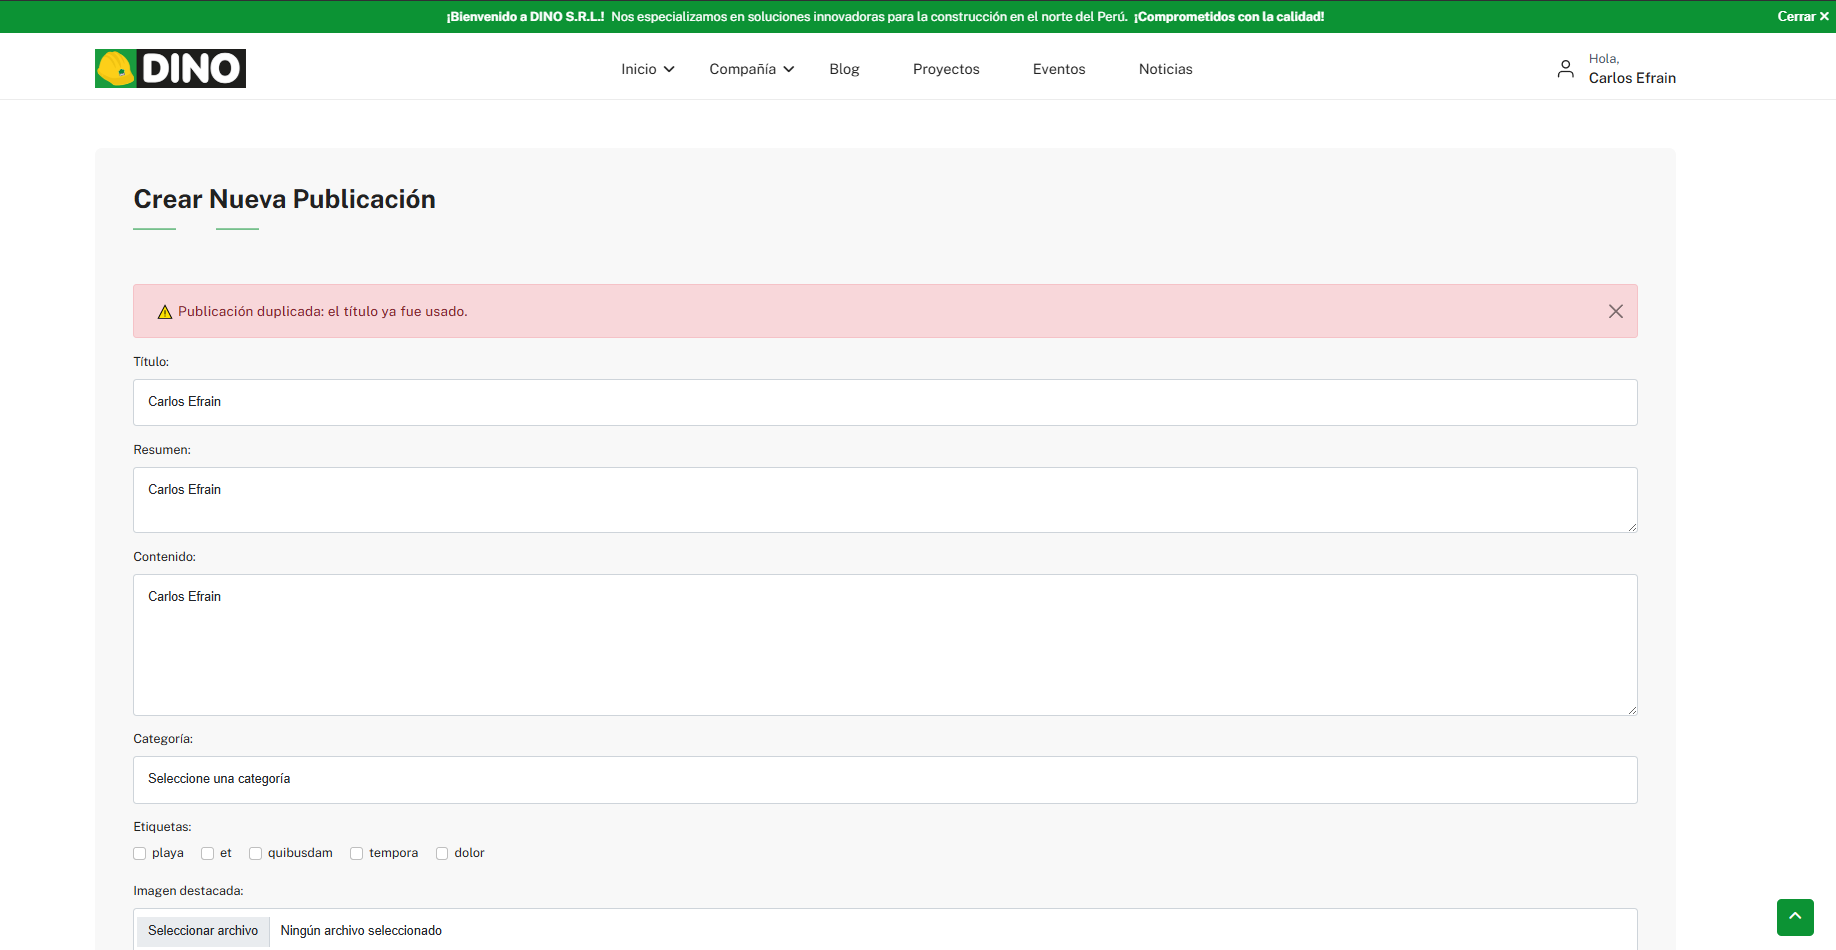
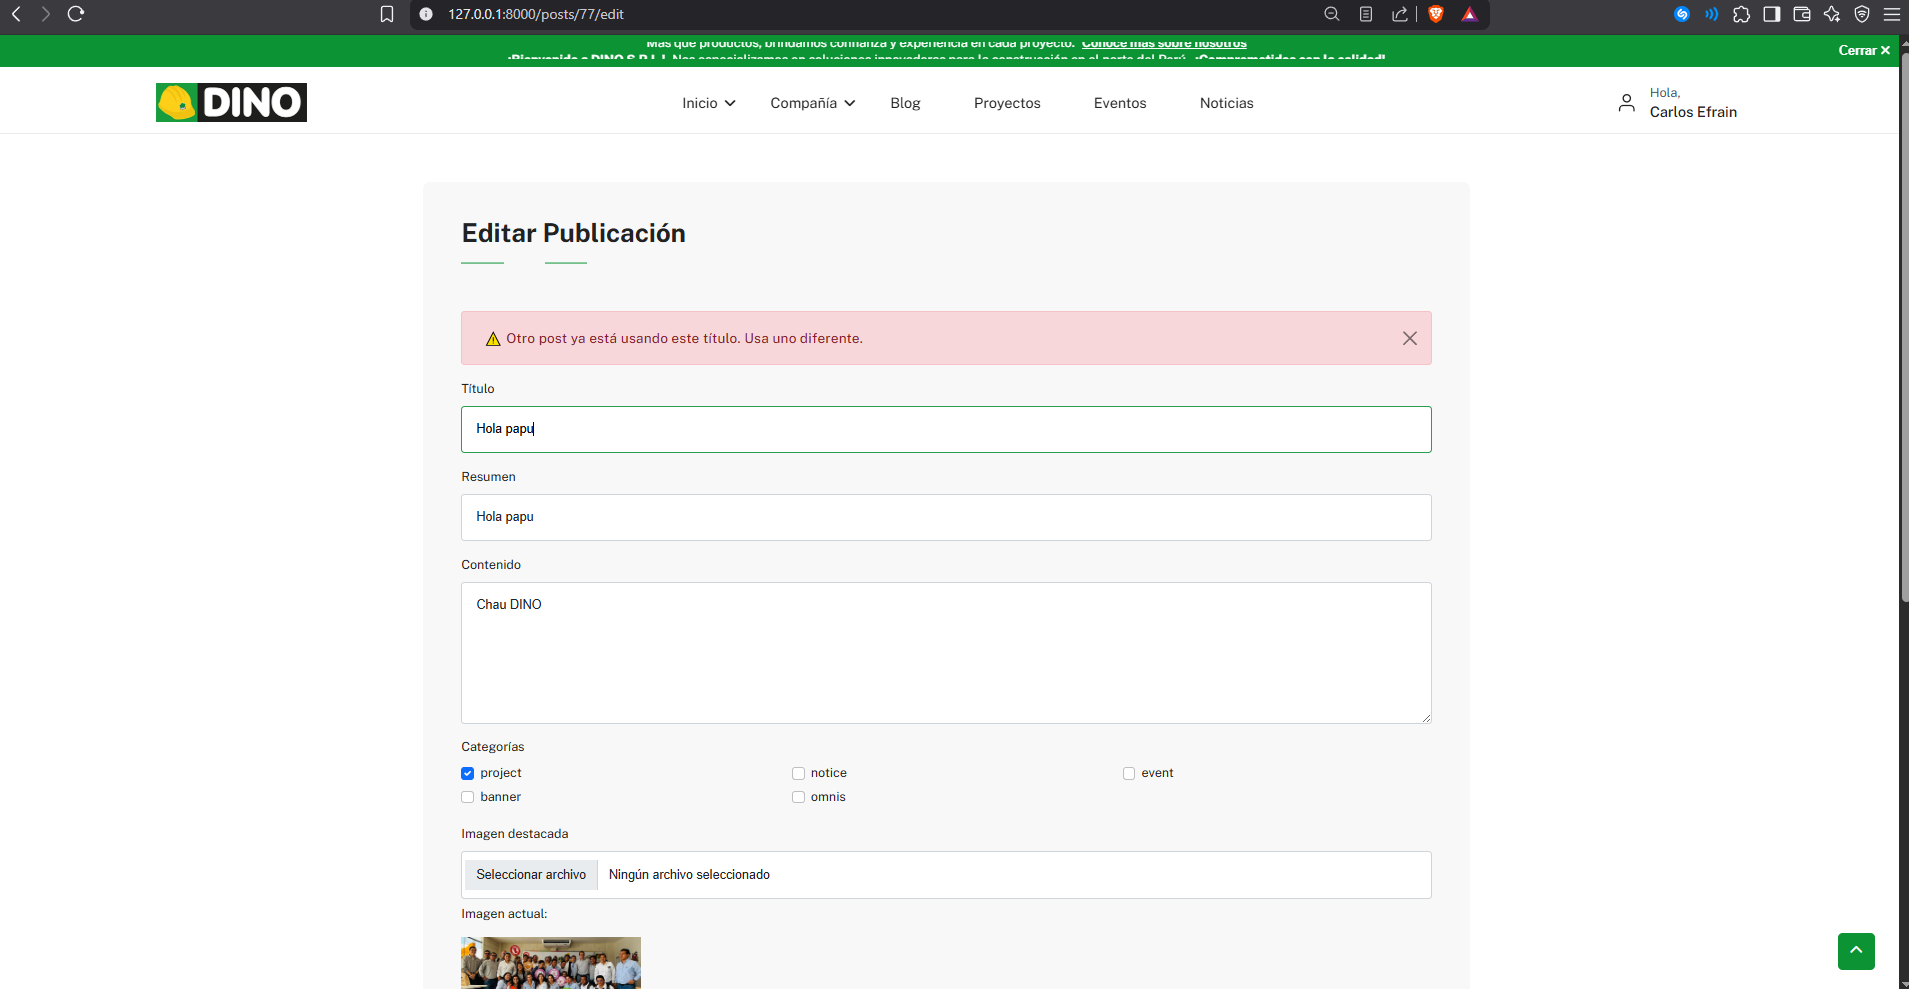
Se agrega el proyecto el mensaje que ya esta creado otro post con el mismo titulo. Funciona correctamente

diff --git a/resources/views/blog/crud/edit.blade.php b/resources/views/blog/crud/edit.blade.php
@@ -10,9 +10,31 @@
                     <div class="dashboard-right-sidebar">
                         <div class="title mb-4">
                             <h2>Editar Publicación</h2>
+                            <span class="title-leaf">
+                                <svg class="icon-width bg-gray">
+                                    <use xlink:href="../assets/svg/leaf.svg#leaf"></use>
+                                </svg>
+                            </span>
                         </div>
 
-                        {{-- Mostrar errores de validación --}}
+                        {{-- ✅ Mensajes tipo alerta Bootstrap --}}
+                        @if (session('error'))
+                            <div class="alert alert-danger alert-dismissible fade show mt-3" role="alert">
+                                {{ session('error') }}
+                                <button type="button" class="btn-close" data-bs-dismiss="alert"
+                                    aria-label="Cerrar"></button>
+                            </div>
+                        @endif
+
+                        @if (session('success'))
+                            <div class="alert alert-success alert-dismissible fade show mt-3" role="alert">
+                                {{ session('success') }}
+                                <button type="button" class="btn-close" data-bs-dismiss="alert"
+                                    aria-label="Cerrar"></button>
+                            </div>
+                        @endif
+
+                        {{-- ✅ Mostrar errores de validación --}}
                         @if ($errors->any())
                             <div class="alert alert-danger">
                                 <ul class="mb-0">
@@ -23,7 +45,7 @@
                             </div>
                         @endif
 
-                        {{-- Formulario --}}
+                        {{-- ✅ Formulario --}}
                         <form action="{{ route('posts.update', $post->id) }}" method="POST" enctype="multipart/form-data">
                             @csrf
                             @method('PUT')
@@ -33,22 +55,34 @@
                                 <label for="title" class="form-label">Título</label>
                                 <input type="text" name="title" id="title" class="form-control"
                                     value="{{ old('title', $post->title) }}" required>
+                                @error('title')
+                                    <small class="text-danger">{{ $message }}</small>
+                                @enderror
                             </div>
+
+                            {{-- Slug oculto (opcional si lo generas con JS o backend) --}}
+                            <input type="hidden" id="slug" name="slug" value="{{ old('slug', $post->slug) }}">
 
                             {{-- Resumen --}}
                             <div class="mb-3">
                                 <label for="summary" class="form-label">Resumen</label>
                                 <input type="text" name="summary" id="summary" class="form-control"
                                     value="{{ old('summary', $post->summary) }}" required>
+                                @error('summary')
+                                    <small class="text-danger">{{ $message }}</small>
+                                @enderror
                             </div>
 
                             {{-- Contenido --}}
                             <div class="mb-3">
                                 <label for="content" class="form-label">Contenido</label>
                                 <textarea name="content" id="content" class="form-control" rows="6" required>{{ old('content', $post->content) }}</textarea>
+                                @error('content')
+                                    <small class="text-danger">{{ $message }}</small>
+                                @enderror
                             </div>
 
-                            {{-- Categorías (checkbox múltiples) --}}
+                            {{-- Categorías --}}
                             <div class="mb-3">
                                 <label class="form-label">Categorías</label>
                                 <div class="row">
@@ -76,6 +110,9 @@
                                     <img src="{{ asset('storage/' . $post->featured_image) }}" alt="Imagen actual"
                                         width="200">
                                 @endif
+                                @error('featured_image')
+                                    <small class="text-danger">{{ $message }}</small>
+                                @enderror
                             </div>
 
                             {{-- Estado --}}
@@ -85,11 +122,14 @@
                                     <option value="draft" {{ old('status', $post->status) == 'draft' ? 'selected' : '' }}>
                                         Borrador</option>
                                     <option value="published"
-                                        {{ old('status', $post->status) == 'published' ? 'selected' : '' }}>Publicado
-                                    </option>
+                                        {{ old('status', $post->status) == 'published' ? 'selected' : '' }}>
+                                        Publicado</option>
                                 </select>
-
+                                @error('status')
+                                    <small class="text-danger">{{ $message }}</small>
+                                @enderror
                             </div>
+
                             {{-- Botones --}}
                             <div class="d-flex justify-content-center align-items-center gap-3 mt-3">
                                 <button type="submit" class="btn btn-primary">

diff --git a/app/Http/Controllers/PostController.php b/app/Http/Controllers/PostController.php
@@ -173,8 +173,17 @@ class PostController extends Controller
 
     public function checkSlug(Request $request)
     {
-        $slug = Str::slug($request->input('title'));
-        $exists = Post::where('slug', $slug)->exists();
+        $title = $request->input('title');
+        $postId = $request->input('post_id'); // útil en edición
+
+        $slug = Str::slug($title);
+
+        $query = Post::where('slug', $slug);
+        if ($postId) {
+            $query->where('id', '!=', $postId);
+        }
+
+        $exists = $query->exists();
 
         return response()->json([
             'exists' => $exists,
@@ -194,6 +203,22 @@ class PostController extends Controller
 
     public function update(Request $request, $id)
     {
+        $post = Post::where('id', $id)->where('user_id', Auth::id())->firstOrFail();
+
+        $slug = Str::slug($request->title);
+
+        // 🧠 Verifica si el nuevo slug ya existe en otro post
+        $slugExists = Post::where('slug', $slug)
+            ->where('id', '!=', $post->id) // excluye el post actual
+            ->exists();
+
+        if ($slugExists) {
+            return redirect()->back()
+                ->withInput()
+                ->with('error', '⚠ Otro post ya está usando este título. Usa uno diferente.');
+        }
+
+        // ✅ Validaciones
         $request->validate([
             'title' => 'required|string|max:255',
             'summary' => 'required|string|max:500',
@@ -206,28 +231,28 @@ class PostController extends Controller
             'status' => 'required|in:draft,published',
         ]);
 
-        $post = Post::where('id', $id)->where('user_id', Auth::id())->firstOrFail();
-
+        // 📷 Imagen nueva (si existe)
         if ($request->hasFile('featured_image')) {
             $imagePath = $request->file('featured_image')->store('blog', 'public');
             $post->featured_image = $imagePath;
         }
 
+        // ✏ Actualizar datos
         $post->update([
             'title' => $request->title,
-            'slug' => Str::slug($request->title),
+            'slug' => $slug,
             'summary' => $request->summary,
             'content' => $request->content,
             'status' => $request->status,
             'published_at' => $request->status === 'published' ? now() : null,
         ]);
 
+        // 🔁 Sincronizar categorías y etiquetas
         $post->categories()->sync($request->categories);
         $post->tags()->sync($request->tags ?? []);
 
         return redirect()->route('posts.userPosts')->with('success', '¡Post actualizado exitosamente!');
     }
-
 
     public function destroy($id)
     {
